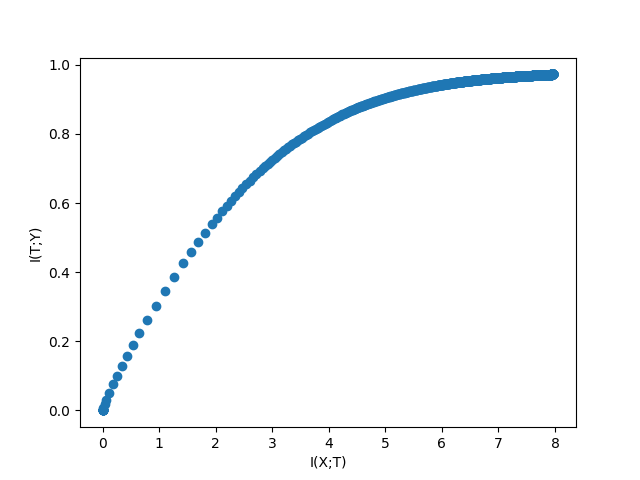
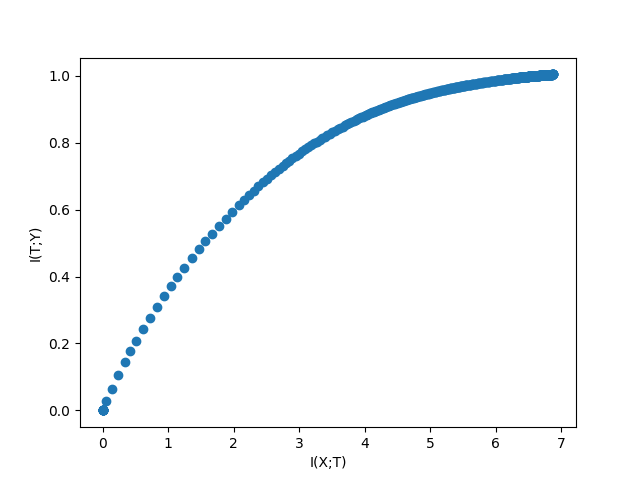
add quantum protocol

diff --git a/quantum_qib.py b/quantum_qib.py
@@ -5,6 +5,8 @@ import numpy as np
 import torch
 from torch.utils.tensorboard import SummaryWriter
 from qiskit.quantum_info import random_density_matrix
+import matplotlib.pyplot as plt
+from tqdm import tqdm
 
 
 def set_seed(seed):
@@ -13,7 +15,7 @@ def set_seed(seed):
     torch.use_deterministic_algorithms(True)
 
 
-def is_hermitian(a, tol=1e-3):
+def is_hermitian(a, tol=1e-2):
     """Check if (batch of) matrices a are hermitian."""
     return torch.allclose(a, a.mH)  # torch.dist(a, a.mH) < tol
 
@@ -119,6 +121,11 @@ def relative_entropy(a, b):
     return trace(a @ (matrix_log2(a) - matrix_log2(b)))
 
 
+def entropy(rho):
+    """ Non-batched entropy of density operators. """
+    return -torch.trace(rho @ matrix_log2(rho))
+
+
 def F_alpha(alpha, beta, pX, sigma_T_X, rho_Y_X):
     """ F_alpha(x) for all x in a batch
     """
@@ -142,10 +149,20 @@ def J_gamma_alpha(gamma, alpha, beta, pX, sigma_T_X, sigma_T_X2, rho_Y_X):
             f_alpha(alpha, beta, pX, sigma_T_X2, rho_Y_X)
 
 
-def fixed_gamma_qib(args, pX, rho_Y_X):
+def initialize_sigma_T_X(args):
     # sigma_T_X = torch.stack([torch.from_numpy(random_density_matrix(args.dim_T).data).cdouble() for _ in range(args.dim_X)])
-    sigma_T_X = torch.stack([torch.diag(torch.softmax(torch.rand(args.dim_T), -1)).cdouble()
-                             for _ in range(args.dim_X)]).to(device)
+    # sigma_T_X = torch.stack([torch.diag(torch.softmax(torch.rand(args.dim_T), -1)).cdouble()
+    #                          for _ in range(args.dim_X)]).to(device)
+    sigma_T_X = []
+    for i in range(args.dim_X):
+        rand_vec = torch.rand(args.dim_T).cdouble() * 0.25
+        rand_vec[i] = 0.75
+        sigma_T_X.append(torch.diag(rand_vec))
+    return torch.stack(sigma_T_X).to(device)
+
+
+def fixed_gamma_qib(args, pX, rho_Y_X, rho_X):
+    sigma_T_X = initialize_sigma_T_X(args)
     assert is_hermitian(sigma_T_X), 'sigma_T|X is not hermitian.'
     assert is_positive(sigma_T_X), f'sigma_T|X is not positive.'
     previous_loss = float('inf')
@@ -153,25 +170,34 @@ def fixed_gamma_qib(args, pX, rho_Y_X):
     n = 0
     while not converged:
         sigma_T_X0 = sigma_T_X.clone()
-        sigma_gamma_alpha_T = matrix_exp(matrix_log2(sigma_T_X) - \
+        sigma_gamma_alpha_T = torch.matrix_exp(matrix_log2(sigma_T_X) - \
                                 1 / args.gamma * F_alpha(args.alpha, args.beta, pX, sigma_T_X, rho_Y_X))
         sigma_T_X = sigma_gamma_alpha_T / trace(sigma_gamma_alpha_T)[:, None, None]
-        assert is_hermitian(sigma_T_X), 'sigma_T|X is not hermitian.'
+        assert is_hermitian(sigma_T_X), f'sigma_T|X is not hermitian. dist: {torch.dist(sigma_T_X, sigma_T_X.mH)}'
         # assert is_positive(sigma_T_X), 'sigma_T|X is not positive.'
         loss = J_gamma_alpha(args.gamma, args.alpha, args.beta, pX, sigma_T_X, sigma_T_X0, rho_Y_X)
         # print('loss:', loss)
         f_alpha_value = f_alpha(args.alpha, args.beta, pX, sigma_T_X, rho_Y_X)
-        args.writer.add_scalar('f_alpha', f_alpha_value.real, n)
-        args.writer.add_scalar("J(a, a')", loss.real, n)
-        print('f_alpha:', f_alpha_value.item())
+        # args.writer.add_scalar('f_alpha', f_alpha_value.real, n)
+        # args.writer.add_scalar("J(a, a')", loss.real, n)
+        # print('f_alpha:', f_alpha_value.item())
         if abs(loss.real - previous_loss.real) < args.cvg_thres:
             converged = True
         previous_loss = loss
         n += 1
-    print(sigma_T_X[0].diagonal())
-    print(f'Algorithm converged in {n} iterations.')
-    return sigma_T_X
 
+    # print(f'Algorithm converged in {n} iterations.')
+
+    rho_t = sigma_T(pX, sigma_T_X)
+    rho_x = torch.diag(pX).cdouble()
+    rho_xt = (pX[:, None, None] * batch_kron(rho_X, sigma_T_X)).sum(0)
+    I_TX = entropy(rho_x) + entropy(rho_t) - entropy(rho_xt)
+
+    rho_y = rho_Y(pX, rho_Y_X)
+    rho_yt = sigma_YT(pX, sigma_T_X, rho_Y_X)
+    I_YT = entropy(rho_y) + entropy(rho_t) - entropy(rho_yt)
+    
+    return I_TX, I_YT, n
 
 def rho_theta_lambda(th, la):
     def exp_i(A, theta):
@@ -192,11 +218,23 @@ def gen_rho_y_x(args):
     # thetas = torch.arange(1, args.dim_X + 1) * torch.pi / args.dim_X
     # lambdas = torch.arange(1, args.dim_X + 1) / (4 * args.dim_X)
     # return rho_theta_lambda(thetas, lambdas)
-    alphas = torch.logspace(-1.3, 1.3, args.dim_Y)
-    distr_y = torch.distributions.dirichlet.Dirichlet(alphas)
-    py = distr_y.sample((args.dim_X,))
-    rho_y = torch.diag_embed(py).cdouble()
-    return rho_y.to(device)
+    alphas = torch.logspace(-1.3, 1.3, args.dim_X)
+    rho_y = []
+    for alpha in alphas:
+        distr_y = torch.distributions.dirichlet.Dirichlet(torch.ones(args.dim_Y, dtype=torch.float) * alpha)
+        py = distr_y.sample()
+        rho_y.append(torch.diag(py).cdouble())
+    return torch.stack(rho_y).to(device)
+
+
+def gen_rho_x(args):
+    """ rho_x: [dim_X, dim_X, dim_X], dim_x stacks of {|x><x|} """
+    rho_x = []
+    for i in range(args.dim_X):
+        vec = torch.zeros(args.dim_X).cdouble()
+        vec[i] = 1
+        rho_x.append(torch.outer(vec, vec))
+    return torch.stack(rho_x).to(device)
 
 
 @torch.no_grad()
@@ -204,11 +242,34 @@ def main(args):
     # pX = torch.ones(args.dim_X) / args.dim_X
     distr_x = torch.distributions.dirichlet.Dirichlet(torch.ones(args.dim_X, dtype=torch.float) * 1000)
     pX = distr_x.sample().to(device)
+    rho_X = gen_rho_x(args)
     rho_Y_X = gen_rho_y_x(args).to(device)
     assert is_positive(rho_Y_X), 'rho_Y|X is not positive.'
     assert is_hermitian(rho_Y_X), 'rho_Y|X is not hermitian.'
 
-    fixed_gamma_qib(args, pX, rho_Y_X)
+    x_coords = []
+    y_coords = []
+    betas = []
+    iterations = []
+    for beta in tqdm(torch.arange(0.001, 50, 0.1)):
+        args.beta = beta
+        betas.append(beta)
+        I_TX, I_YT, n = fixed_gamma_qib(args, pX, rho_Y_X, rho_X)
+        iterations.append(n)
+        x_coords.append(I_TX.cpu())
+        y_coords.append(I_YT.cpu())
+    
+    fig = plt.figure()
+    plt.scatter(x_coords, y_coords)
+    plt.xlabel('I(X;T)')
+    plt.ylabel('I(T;Y)')
+    plt.savefig('qib_plane.png')
+
+    fig = plt.figure()
+    plt.plot(betas, iterations)
+    plt.xlabel('beta')
+    plt.ylabel('Iters')
+    plt.savefig('qib_converge_itrs.png')
 
 
 if __name__ == '__main__':
@@ -216,18 +277,18 @@ if __name__ == '__main__':
     parser.add_argument('--gamma', default=0.8, type=float)
     parser.add_argument('--alpha', default=1.0, type=float)
     parser.add_argument('--beta', default=200., type=float)
-    parser.add_argument('--dim_X', default=2**6, type=int, help='dimension of X')
-    parser.add_argument('--dim_Y', default=2**3, type=int, help='dimension of Y')
-    parser.add_argument('--dim_T', default=2**6, type=int, help='dimension of T')
+    parser.add_argument('--dim_X', default=2**4, type=int, help='dimension of X')
+    parser.add_argument('--dim_Y', default=2**2, type=int, help='dimension of Y')
+    parser.add_argument('--dim_T', default=2**4, type=int, help='dimension of T')
     parser.add_argument('--cvg_thres', default=5e-4, type=int, help='threshold for convergence of algorithm')
     args = parser.parse_args()
 
-    device = torch.device('cuda' if torch.cuda.is_available() else 'cpu')
+    device = torch.device('cpu' if torch.cuda.is_available() else 'cpu')
     print(f'==== Running quantum algorithm on {device}....')
 
     # set_seed(0)
-    args.writer = SummaryWriter(log_dir='./logs')
+    # args.writer = SummaryWriter(log_dir='./logs')
     main(args)
-    args.writer.flush()
-    args.writer.close()
+    # args.writer.flush()
+    # args.writer.close()
     

diff --git a/classical_ib.py b/classical_ib.py
@@ -81,7 +81,7 @@ def classical_original_ib(args, pX, p_Y_X):
     q_YT = q_Y_T * q_T[None, :]
     I_YT = (q_YT * (torch.log2(q_YT + 1e-12) - torch.log2(q_T[None, :] * pY[:, None]))).sum()
     # print(f'Algorithm converged in {n} iterations.')
-    return I_TX, I_YT
+    return I_TX, I_YT, n
 
 
 def gen_p_Y_X(args):
@@ -103,18 +103,28 @@ def main(args):
     p_Y_X = gen_p_Y_X(args).to(device)
     x_coords = []
     y_coords = []
-
-    for beta in tqdm(torch.arange(0.001, 100, 0.1)):
+    betas = []
+    iterations = []
+    for beta in tqdm(torch.arange(0.001, 50, 0.1)):
         args.beta = beta
-        I_TX, I_YT = classical_original_ib(args, pX, p_Y_X)
+        betas.append(beta)
+        I_TX, I_YT, n = classical_original_ib(args, pX, p_Y_X)
+        iterations.append(n)
         x_coords.append(I_TX.cpu())
         y_coords.append(I_YT.cpu())
-    
+
     fig = plt.figure()
     plt.scatter(x_coords, y_coords)
     plt.xlabel('I(X;T)')
     plt.ylabel('I(T;Y)')
     plt.savefig('ib_plane.png')
+
+    fig = plt.figure()
+    plt.plot(betas, iterations)
+    plt.xlabel('beta')
+    plt.ylabel('Iters')
+    plt.savefig('converge_itrs.png')
+    
 
 
 if __name__ == '__main__':
